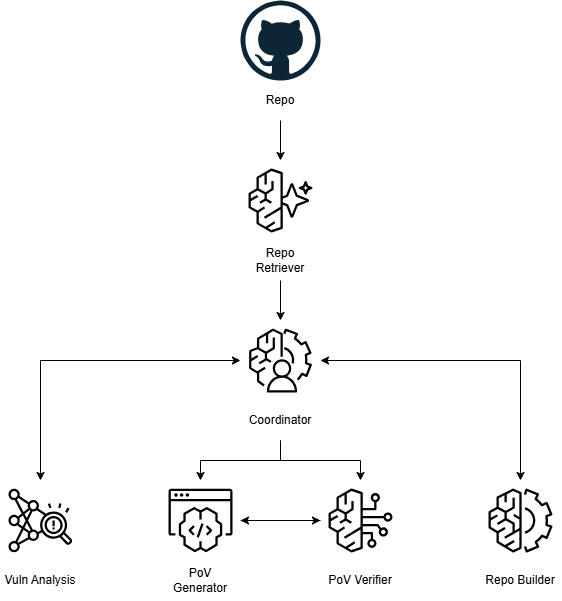
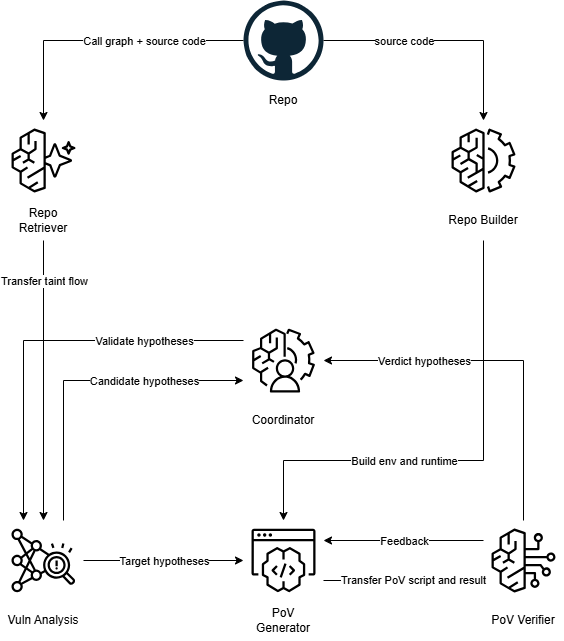
Update architec

diff --git a/docs/README.md b/docs/README.md
@@ -1,6 +1,8 @@
 # Architecture Diagram
 
-![Architecture Diagram](architecture-diagram.png)
+<p align="center">
+  <img src="architecture-diagram.png" alt="Architecture Diagram" />
+</p>
 
 # Mô tả chi tiết
 
@@ -8,130 +10,112 @@
 
 ## 1. Repo Retriever
 
-- **Trách nhiệm:** Khảo sát toàn diện kho mã nguồn thông qua công cụ phân tích đồ thị để xây dựng call graph, tự động định vị các sources và sinks, từ đó trích xuất taint flow graph kết nối từ source đến sink để chuyển tiếp cho bộ điều phối.
+- **Trách nhiệm:** Khảo sát toàn diện kho mã nguồn thông qua Graphify và các công cụ phân tích cấu trúc để xây dựng đồ thị gọi hàm. Tự động truy vết và giải mã các hàm ẩn do con trỏ hàm, macro định nghĩa hoặc liên kết động gây ra nhằm hàn gắn các mắt xích đứt đoạn. Xử lý triệt để việc khử trùng lặp và chặn chu trình đệ quy lặp vô tận, bóc tách các chuỗi Taint Flow hoàn chỉnh và chuyển trực tiếp sang Vuln Analysis.
 
-- **Input:** Mã nguồn.
+- **Input:** Mã nguồn dự án cùng đồ thị gọi hàm từ Repo.
 
-- **Output:** Call graph và taint flow graph.
+- **Output:** Taint Flow hoàn chỉnh - Transfer taint flow gửi đến Vuln Analysis.
 
 - **Model:** Model nhanh.
 
-- **Tools:** Graphify, regex/grep search.
+- **Tools:** Graphify, Symbol analyzer, Traversal scripts.
 
 ---
 
 ## 2. Repo Builder
 
-- **Trách nhiệm:** Phân tích cấu hình dự án để thiết lập môi trường Docker khép kín, cài đặt các phụ thuộc theo từng ngôn ngữ, kích hoạt các chế độ giám sát/debug runtime như Sanitizer cho C/C++, Race detector cho Go, hoặc chế độ Debug/Trace cho Python/Node.js và tự động xử lý lỗi build để ứng dụng thực thi được.
+- **Trách nhiệm:** Phân tích cấu hình dự án để thiết lập môi trường Docker khép kín, cài đặt các gói phụ thuộc theo từng ngôn ngữ, kích hoạt các công cụ giám sát runtime phù hợp như Sanitizer, Race detector, Debugger hoặc Runtime tracer và tự động xử lý lỗi biên dịch để ứng dụng thực thi được, sau đó bàn giao môi trường hoàn chỉnh cho PoV Generator.
 
-- **Input:** Mã nguồn dự án, tập tin hướng dẫn build.
+- **Input:** Mã nguồn dự án và tập tin hướng dẫn cấu hình từ Repo.
 
-- **Output:** Ứng dụng/nhị phân sẵn sàng chạy kèm công cụ giám sát runtime. Kịch bản build tối ưu (`build.sh`) và danh sách gói phụ thuộc (`packages.txt`).
+- **Output:** Môi trường thực thi kèm công cụ giám sát runtime - Build env and runtime bàn giao cho PoV Generator.
 
-- **Model:** Model trung bình
+- **Model:** Model trung bình.
 
-- **Tools:** Shell code.
+- **Tools:** Docker execution, Shell script, Build harness.
 
 ---
 
 ## 3. Coordinator
 
-- **Trách nhiệm:** Quản lý vòng đời kiểm thử, phân bổ nhiệm vụ tuần tự đến các tác tử chuyên trách, lưu trữ ngữ cảnh giữa các pha, điều khiển vòng lặp phản hồi và kích hoạt cơ chế replan khi gặp bế tắc. Đảm nhiệm vai trò đánh giá threat model: xếp hạng ứng viên dựa trên bề mặt tấn công ngoài và thẩm định kết quả từ PoV Verifier dựa trên ranh giới tin cậy nhằm loại bỏ các lỗi vô hại trước khi xuất báo cáo.
+- **Trách nhiệm:** Bộ não điều phối cấp cao và quản lý mô hình hiểm họa. Tiếp nhận các giả thuyết ứng viên từ Vuln Analysis để tranh biện, phản biện và xác thực tính hợp lý theo ranh giới tin cậy. Tiếp nhận phán quyết cuối cùng từ PoV Verifier để chốt báo cáo lỗ hổng hoặc điều hướng chiến lược kiểm thử lại khi PoV thất bại.
 
-- **Input:** Báo cáo trạng thái và dữ liệu từ các tác tử con.
+- **Input:** Candidate hypotheses từ Vuln Analysis, Verdict hypotheses từ PoV Verifier.
 
-- **Output:** Chỉ thị thực thi nhiệm vụ, quyết định chuyển pha và báo cáo lỗ hổng đã thẩm định.
+- **Output:** Validate hypotheses phản biện lại Vuln Analysis, Báo cáo lỗ hổng thẩm định cuối cùng.
 
 - **Model:** Model mạnh.
 
-- **Tools:** Quản lý trạng thái, context summarizer.
+- **Tools:** Quản lý trạng thái, Context summarizer.
 
 ---
 
 ## 4. Vuln Analysis
 
-- **Trách nhiệm:** Đọc sâu mã nguồn các hàm trên đường dẫn nghi vấn, phân tích ngữ nghĩa để xác định nguyên nhân gốc rễ, đối chiếu phân loại CWE và trích xuất các điều kiện rẽ nhánh. Khi gặp các liên kết động hoặc interface bị đứt đoạn, agent chủ động tự tra cứu mã nguồn để nối tiếp và hoàn thiện chuỗi vết.
+- **Trách nhiệm:** Bộ não phân tích bảo mật ngữ nghĩa chuyên sâu. Đọc sâu mã nguồn các hàm dọc theo chuỗi Taint Flow do Repo Retriever cung cấp, đối chiếu điểm vào dữ liệu và điểm thao tác nhạy cảm, phân tích ngữ nghĩa để xác định nguyên nhân gốc rễ và phân loại CWE. Đề xuất giả thuyết ứng viên lên Coordinator để thẩm định hai chiều, sau đó bàn giao đặc tả mục tiêu khai thác kèm điều kiện kích hoạt sang PoV Generator.
 
-- **Input:** Đoạn mã nguồn trích xuất từ Repo Retriever và quyền truy cập tra cứu mã nguồn mở rộng khi cần.
+- **Input:** Taint Flow từ Repo Retriever, Validate hypotheses từ Coordinator, mã nguồn chi tiết trong repo.
 
-- **Output:** Bản đặc tả lỗi gồm vị trí, loại CWE, chuỗi vết hoàn chỉnh và các điều kiện kích hoạt.
+- **Output:** Candidate hypotheses đề xuất lên Coordinator, Target hypotheses chuyển sang PoV Generator.
 
 - **Model:** Model mạnh.
 
-- **Tools:** Trích xuất mã nguồn, code viewer, grep/symbol lookup.
+- **Tools:** Trích xuất mã nguồn, Code viewer, Semantic parser.
 
 ---
 
 ## 5. PoV Generator
 
-- **Trách nhiệm:** Thiết kế dữ liệu đầu vào và tạo kịch bản kiểm thử tự động thỏa mãn các điều kiện từ Vuln Analysis nhằm kích hoạt trạng thái lỗi, đồng thời tinh chỉnh kịch bản dựa trên phản hồi của PoV Verifier.
+- **Trách nhiệm:** Tác tử thực thi kịch bản kiểm thử. Tiếp nhận đặc tả mục tiêu từ Vuln Analysis và môi trường runtime từ Repo Builder để thiết kế dữ liệu đầu vào cùng kịch bản khai thác. Trực tiếp thực thi kịch bản trong môi trường Docker để thu thập kết quả và log chạy thực tế, chuyển toàn bộ sang PoV Verifier, đồng thời tinh chỉnh kịch bản dựa trên phản hồi kỹ thuật từ Verifier.
 
-- **Input:** Bản đặc tả lỗi và các điều kiện kích hoạt từ Vuln Analysis.
+- **Input:** Target hypotheses từ Vuln Analysis, Build env and runtime từ Repo Builder, Feedback từ PoV Verifier.
 
-- **Output:** Kịch bản kiểm thử tự động và tập tin dữ liệu đầu vào.
+- **Output:** Kịch bản kiểm thử kèm kết quả thực thi thực tế - Transfer PoV script and result gửi sang PoV Verifier.
 
 - **Model:** Model mạnh.
 
-- **Tools:** Trình sinh mã, shell/python execution.
+- **Tools:** Trình sinh mã, Runtime executor, Python script.
 
 ---
 
 ## 6. PoV Verifier
 
-- **Trách nhiệm:** Thực thi kịch bản kiểm thử trong môi trường Docker do Repo Builder thiết lập, giám sát mã thoát, bắt log crash hoặc lỗi runtime và phản hồi lại cho PoV Generator nếu kịch bản chưa kích hoạt thành công.
+- **Trách nhiệm:** Thẩm định viên độc lập đóng vai trò phê bình và giám sát. Không trực tiếp chạy lại mã mà phân tích kịch bản kiểm thử đối chiếu với log thực thi và mã lỗi runtime từ PoV Generator để xác minh xem lỗi kích hoạt có thực sự hợp lệ hay chỉ là crash vô hại. Gửi phản hồi kỹ thuật để PoV Generator tinh chỉnh kịch bản hoặc gửi phán quyết thẩm định cuối cùng lên Coordinator.
 
-- **Input:** Kịch bản kiểm thử từ PoV Generator và môi trường Docker từ Repo Builder.
+- **Input:** PoV script and result từ PoV Generator.
 
-- **Output:** Kết quả thẩm định kèm log lỗi runtime.
+- **Output:** Feedback kỹ thuật gửi cho PoV Generator, Verdict hypotheses gửi lên Coordinator.
 
-- **Model:** Model nhanh / trung bình.
+- **Model:** Model nhanh hoặc trung bình.
 
-- **Tools:** Docker execution, log parser.
-
----
-
-# Phân tích
+- **Tools:** Log parser, Runtime oracle analyzer.
 
 ---
 
-## 1. Điểm mạnh
-
-- **No endpoint file & trajectory drift:**
-  - *Lỗi được chỉ ra trong VulnGym:* Khi đánh giá các coding agent ở cấp độ repository, có tới **26.8% ca thất bại ở tác vụ End-to-End là do không tìm được bất kỳ file nào chứa entry point hoặc critical operation**. Agent duyệt mã tự do bằng các lệnh rời rạc thường bị trajectory drift qua hàng chục turn và nhanh chóng tràn cửa sổ ngữ cảnh.
-  
-  - *Khắc phục:* Tác tử `Repo Retriever` sử dụng `Graphify` để tự động bóc tách toàn diện call graph và taint flow graph thô. Việc này cô lập không gian tìm kiếm rộng lớn thành các Candidate Slices, chuyển giao trực tiếp cho `Vuln Analysis` mà không để agent tự mò mẫm thủ công.
-
-- **Over-classification & over-analyzing patched guards:**
-  - *Lỗi được chỉ ra trong Yildiz et al.:* LLM và agent có xu hướng đoán bừa mã lành thành có lỗ hổng, khiến pairwise accuracy thấp hơn cả đoán ngẫu nhiên. Khi gặp mã đã vá, LLM thường suy đoán vô căn cứ rằng rào chắn bảo vệ bị vượt qua, gây ra lượng lớn cảnh báo giả.
-  
-  - *Khắc phục:* Tách biệt phân tích giả thuyết khỏi kiểm chứng thực thi. Mọi nghi vấn buộc phải chạy thực tế trong Docker của `Repo Builder`; nếu không kích hoạt được crash hay vi phạm runtime, cảnh báo giả sẽ bị loại bỏ hoàn toàn.
-
-- **Trace incompleteness & static blindness:**
-  - *Lỗi được chỉ ra trong VulnGym & IRIS:* Phân tích tĩnh truyền thống thường bị mù trước các liên kết động, làm đứt gãy đường truyền và khiến tỷ lệ khớp chuỗi vết trung gian chỉ đạt 14–26%.
-  
-  - *Khắc phục:* `Vuln Analysis` được cấp công cụ tự tra cứu để chủ động tìm kiếm mã nguồn cục bộ, nối lại các liên kết động bị đứt đoạn mà không cần qua các khâu điều phối trung gian.
-
-- **Prohibitive token cost & budget exhaustion:**
-  - *Lỗi được chỉ ra trong Revelio & Wen et al.:* Dùng một model mạnh duy nhất chạy toàn bộ vòng lặp ReAct tốn tới $10–$20/repo và dễ cạn quota ngữ cảnh trước khi tìm thấy mã lỗi.
-  
-  - *Khắc phục:* Phân cấp mô hình theo chi phí: dùng model nhẹ cho quét đồ thị, model vừa cho dựng môi trường, và chỉ dùng model mạnh cho phân tích logic và sinh kịch bản kiểm thử.
-
-- **C/C++ scope lock:**
-  - *Hạn chế của Revelio:* Revelio chứng minh PoV hiệu quả nhưng bị giới hạn trong phạm vi Memory Safety trên C/C++ với AddressSanitizer/UBSan.
-  
-  - *Khắc phục:* Thiết kế `Repo Builder` đa ngôn ngữ, tự động nhận diện hệ sinh thái dự án, cấu hình môi trường và chèn công cụ giám sát runtime tương ứng.
-
-- **AI-powered triage & threat model:**
-  - *Hạn chế của Revelio:* Crash tái hiện được chưa chắc đã là lỗ hổng bảo mật nếu nằm ngoài ranh giới tin cậy, Revelio phải lọc thủ công bằng con người.
-  
-  - *Khắc phục:* `Coordinator` tự động đối chiếu kết quả crash với mô hình hiểm họa của dự án và ranh giới tin cậy, loại bỏ các lỗi DoS nội bộ hoặc assertion vô hại trước khi xuất báo cáo.
+# Đóng góp
 
 ---
 
-## 2. Điểm yếu
+## 1. Đề xuất kiến trúc đa tác tử phân tầng hoàn chỉnh từ phân tích mã nguồn đến thực thi kiểm chứng
 
-- **Dynamic tracing & search budget:** Khi gặp framework phân tán qua quá nhiều tầng trừu tượng, việc `Vuln Analysis` mở rộng tra cứu liên tục có thể làm tăng số lượt gọi tool và tốn ngữ cảnh nếu không giới hạn độ sâu hợp lý.
+Xây dựng hệ thống phối hợp đa tác tử gồm sáu thành phần chuyên biệt: Repo Retriever, Repo Builder, Coordinator, Vuln Analysis, PoV Generator và PoV Verifier. Kiến trúc phân tách độc lập giữa làn phân tích tĩnh và làn đóng gói môi trường runtime, khắc phục triệt để hiện tượng quá tải ngữ cảnh và cạn kiệt ngân sách tính toán đã được chỉ ra trong các nghiên cứu SEC-bench và IEEE Access.
 
-- **Path constraint solving bottleneck:** Việc kích hoạt lỗi đòi hỏi input vượt qua các điều kiện rẽ nhánh phức tạp. Dù ReAct agent có thể lặp để thử sai, việc giải các ràng buộc cứng mà thiếu công cụ chuyên dụng vẫn là một rào cản.
+## 2. Thiết kế lược đồ bằng chứng thống nhất cho toàn bộ chu trình kiểm thử
 
-- **Feedback loop latency:** Vòng lặp giữa `Coordinator` <-> `Vuln Analysis` và `PoV Generator` <-> `PoV Verifier` có thể kéo dài thời gian xử lý nếu test liên tục thất bại, đòi hỏi phải có ngưỡng dừng (turn limit) chặt chẽ.
+Chuẩn hóa lược đồ dữ liệu trung gian có cấu trúc xuyên suốt giữa các tác tử, bao gồm phân loại CWE, vị trí tệp tin và dòng mã nguồn, entry point, critical operation, chuỗi vết source-to-sink trace, precondition kích hoạt, kịch bản PoV và kết quả thực thi runtime. Việc chuẩn hóa này loại bỏ triệt để hiện tượng ảo giác, tạo cầu nối dữ liệu chặt chẽ và nhất quán giữa các khâu suy luận.
+
+## 3. Cơ chế sàng lọc và xếp hạng ứng viên dựa trên khả năng tiếp cận và bằng chứng thực tế
+
+Thiết lập quy trình ưu tiên và sàng lọc giả thuyết dựa trên bốn trụ cột chính:
+- Tính khả thi của đường dẫn thực thi - Reachability analysis qua đồ thị gọi hàm.
+- Bằng chứng phân tích cú pháp và ngữ nghĩa từ Repo Retriever.
+- Mức độ nghiêm trọng của phân loại lỗi - Severity scoring.
+- Khả năng kiểm chứng thực tế trong môi trường sandbox để loại bỏ sớm các cảnh báo giả.
+
+## 4. Kiểm soát bùng nổ đường đi và chống trôi ngữ cảnh bằng lát cắt Taint Flow
+
+Ứng dụng đồ thị Graphify kết hợp cơ chế khử trùng lặp và chặn chu trình đệ quy lặp vô tận, tự động giải mã con trỏ hàm và liên kết ẩn. Đóng gói mã nguồn thành các lát cắt Taint Flow độc lập gửi trực tiếp cho Vuln Analysis, giúp tác tử phân tích dứt điểm từng lát cắt và làm mới bộ nhớ đệm, triệt tiêu hoàn toàn hiện tượng mất trí nhớ khi xử lý kho mã nguồn quy mô lớn.
+
+## 5. Quy trình đánh giá thực nghiệm toàn diện và kiểm soát rò rỉ dữ liệu
+
+Định hình khung đánh giá thực nghiệm đa chiều bao gồm độ chính xác phát hiện, năng lực định vị dòng lỗi, độ bao phủ chuỗi vết, tỷ lệ thực thi PoV thành công, tỷ lệ cảnh báo giả, thời gian thực thi và chi phí token. Tích hợp nghiên cứu bóc tách từng thành phần - Ablation study và quy trình kiểm định rò rỉ dữ liệu huấn luyện - Data leakage nhằm bảo đảm tính khách quan và độ tin cậy khoa học.
